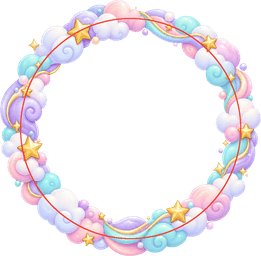
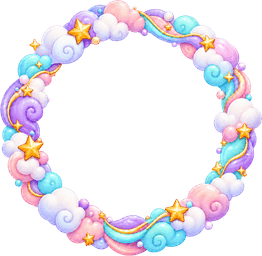
Replace the Cloud border with its corrected art
New source is 937x916 with the opening at 76/831/94/849 -- a true 755px
square, where the previous export's hole was not. The verifier reports a
clean rim and the stated opening a superset of the actual transparency.

Claude-Session: https://claude.ai/code/session_01DHRgTzBGsMmhtySd8RW85m

diff --git a/app/lib/avatar-borders.ts b/app/lib/avatar-borders.ts
@@ -36,8 +36,8 @@ export const AVATAR_BORDERS: readonly AvatarBorder[] = [
     id: "cloud",
     title: "Cloud",
     src: "/avatar-borders/cloud.png",
-    measured: { width: 959, height: 942 },
-    opening: { top: 70, bottom: 877, left: 77, right: 884 },
+    measured: { width: 937, height: 916 },
+    opening: { top: 76, bottom: 831, left: 94, right: 849 },
   },
   {
     id: "tech",
